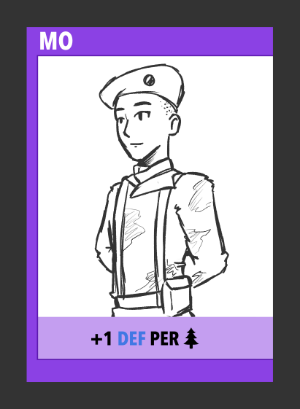
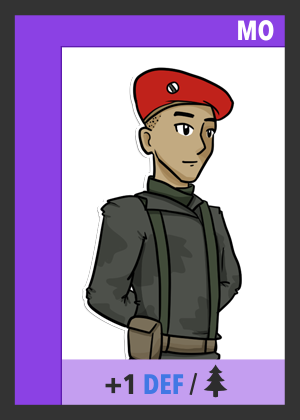
ALL COMBOS IN
Fixes #5 (Added Air Cover/updated Squad)
Updates 3* Combo art
Update CO card art

diff --git a/js/min/game.min.js b/js/min/game.min.js
@@ -685,7 +685,7 @@ var cardType = {
 		'wingman' : { 'def' : 2, 'atk' : 0, 'sup' : 0, 'vs': 'air', 'canuse' : ['air','air'] },
 		'stealth' : { 'special' : true, 'sup' : 1, 'canuse' : ['inf','lr'] },
 		'barrier' : { 'special' : true, 'sup' : 0, 'canuse' : ['arm','inf','arm'] },
-		'squad' : { 'atk' : 3, 'def' : 0, 'sup' : 0, 'canuse' : ['inf','inf','inf']},
+		'squad' : { 'special' : true, 'sup' : 0, 'canuse' : ['inf','inf','inf']},
 		'patrol' : { 'atk' : 0, 'def' : 4, 'sup' : 2, 'canuse' : ['grd','air','grd']},
 		'acover' : { 'special' : true, 'sup' : 0, 'canuse' : ['air','as','air']},
 		'column' : { 'atk' : 2, 'def' : 2, 'sup' : 1, 'canuse' : ['arm','arm','arm']},
@@ -1361,6 +1361,21 @@ function unitCalc(who) {
 			if (el.parentNode.getAttribute('data-def')) comboDefTotal += parseInt(el.parentNode.getAttribute('data-def'))
 
 			currentSupUse += parseInt(el.parentNode.getAttribute('data-sup'));
+
+			// Check for special combos with multiplier bonuses
+			if (el.parentNode.mBonus) {
+				var bonus = 0;
+				var realwho = (el.parentNode.mBonus.who === 'player' && who === 'player') ? 'player' : 'opponent' ;
+				// Check each unit of "who" ...
+				[].forEach.call(document.querySelectorAll('.'+realwho+' .formation .unit'), function(u) {
+					// ...for the "vs" trait, and if so, add by count amount
+					if (cardType.unit[u.cardProps.type].trait.indexOf( el.parentNode.mBonus.vs ) != -1) bonus += el.parentNode.mBonus.count;
+				});
+
+				if (el.parentNode.mBonus.stat === 'atk') {
+					comboAtkTotal += bonus;
+				} else { comboDefTotal += bonus; }
+			}
 		}
 
 		unitTraits.push(cardType.unit[el.getAttribute('data-type')].trait);
@@ -1371,6 +1386,7 @@ function unitCalc(who) {
 		currentSupUse += parseInt(cardType.unit[el.getAttribute('data-type')].sup);
 	});
 
+	// Add in the Commander bonus
 	if (document.querySelector('.'+who+' .commander')) {
 		var comm = document.querySelector('.'+who+' .commander');
 
@@ -1408,6 +1424,7 @@ function comboCard(unit,card,who) {
 	if ( cardType.unit[card.type] ) { pre = 'unit_'; }
 	else if ( cardType.co[card.type] ) { pre = 'co_'; }
 
+	slot.setAttribute('id', card.id);
 	if (!slot.getAttribute('data-type')) {
 		slot.setAttribute('data-type', card.type);
 	} else { slot.setAttribute('data-type2', card.type); }
@@ -1442,7 +1459,8 @@ function comboCard(unit,card,who) {
 
 		// Special combo color slots
 		if (card.type==='support') buoy.addClass(slot,'sup');
-		if (card.type==='sniper' || card.type==='tstrike') buoy.addClass(slot,'atk');
+		if (card.type==='sniper' || card.type==='tstrike' || card.type==='squad') buoy.addClass(slot,'atk');
+		if (card.type==='acover') buoy.addClass(slot,'def');
 		if (card.type==='intel' || card.type==='stealth' || card.type==='bigguns' || card.type==='barrier') { 
 			buoy.addClass(slot,'atk'); 
 			buoy.addClass(slot,'def'); 
@@ -1513,6 +1531,19 @@ function specialCombo(card,who,v) {
 			'who' : 'opponent', 
 			'var' : uid
 		});
+	}
+
+	function multiplier(card, n,stat,against,trait) {
+		var slot = document.getElementById(card.id);
+		slot.mBonus = { 
+			'count' : n,
+			'stat' : stat,
+			'who' : against,
+			'vs' : trait
+		}
+
+		unitCalc('opponent');
+		unitCalc('player');
 	}
 
 	console.log('Special Combo! Played by: '+who);
@@ -1725,10 +1756,13 @@ function specialCombo(card,who,v) {
 			break;
 		// 3 Star Combo
 		case "barrier":
-			// GOOD QUESTION
+			// Apparently it's automatic?
+			break;
+		case "squad":
+			multiplier(card, 1,'atk','player','inf');
 			break;
 		case "acover":
-			// Might need to rework this card to just extra def...
+			multiplier(card, 2,'def','opponent','air');
 			break;
 		case "bigguns":
 			extraUnit('tank',who);
@@ -1837,7 +1871,9 @@ function clearCombo(el) {
 	el.removeAttribute('data-def');
 	el.removeAttribute('data-sup');
 	el.removeAttribute('data-type');
+	el.removeAttribute('id');
 	if (el.getAttribute('data-type2')) el.removeAttribute('data-type2');
+	if (el.mBonus) el.mBonus = null;
 
 	if (el.querySelector('span').firstElementChild) el.querySelector('span').firstElementChild.remove();
 	// Double check for a 2nd combo (Barrier)
@@ -2235,6 +2271,8 @@ function wipeGame() {
 
 	[].forEach.call(document.querySelectorAll('.combo'), function(slot) {
 		slot.setAttribute('class','');
+		slot.removeAttribute('id');
+		if (slot.mBonus) slot.mBonus = null;
 		slot.querySelector('img').remove();
 	});
 

diff --git a/js/play.js b/js/play.js
@@ -54,7 +54,7 @@ var cardType = {
 		'wingman' : { 'def' : 2, 'atk' : 0, 'sup' : 0, 'vs': 'air', 'canuse' : ['air','air'] },
 		'stealth' : { 'special' : true, 'sup' : 1, 'canuse' : ['inf','lr'] },
 		'barrier' : { 'special' : true, 'sup' : 0, 'canuse' : ['arm','inf','arm'] },
-		'squad' : { 'atk' : 3, 'def' : 0, 'sup' : 0, 'canuse' : ['inf','inf','inf']},
+		'squad' : { 'special' : true, 'sup' : 0, 'canuse' : ['inf','inf','inf']},
 		'patrol' : { 'atk' : 0, 'def' : 4, 'sup' : 2, 'canuse' : ['grd','air','grd']},
 		'acover' : { 'special' : true, 'sup' : 0, 'canuse' : ['air','as','air']},
 		'column' : { 'atk' : 2, 'def' : 2, 'sup' : 1, 'canuse' : ['arm','arm','arm']},
@@ -730,6 +730,21 @@ function unitCalc(who) {
 			if (el.parentNode.getAttribute('data-def')) comboDefTotal += parseInt(el.parentNode.getAttribute('data-def'))
 
 			currentSupUse += parseInt(el.parentNode.getAttribute('data-sup'));
+
+			// Check for special combos with multiplier bonuses
+			if (el.parentNode.mBonus) {
+				var bonus = 0;
+				var realwho = (el.parentNode.mBonus.who === 'player' && who === 'player') ? 'player' : 'opponent' ;
+				// Check each unit of "who" ...
+				[].forEach.call(document.querySelectorAll('.'+realwho+' .formation .unit'), function(u) {
+					// ...for the "vs" trait, and if so, add by count amount
+					if (cardType.unit[u.cardProps.type].trait.indexOf( el.parentNode.mBonus.vs ) != -1) bonus += el.parentNode.mBonus.count;
+				});
+
+				if (el.parentNode.mBonus.stat === 'atk') {
+					comboAtkTotal += bonus;
+				} else { comboDefTotal += bonus; }
+			}
 		}
 
 		unitTraits.push(cardType.unit[el.getAttribute('data-type')].trait);
@@ -740,6 +755,7 @@ function unitCalc(who) {
 		currentSupUse += parseInt(cardType.unit[el.getAttribute('data-type')].sup);
 	});
 
+	// Add in the Commander bonus
 	if (document.querySelector('.'+who+' .commander')) {
 		var comm = document.querySelector('.'+who+' .commander');
 
@@ -777,6 +793,7 @@ function comboCard(unit,card,who) {
 	if ( cardType.unit[card.type] ) { pre = 'unit_'; }
 	else if ( cardType.co[card.type] ) { pre = 'co_'; }
 
+	slot.setAttribute('id', card.id);
 	if (!slot.getAttribute('data-type')) {
 		slot.setAttribute('data-type', card.type);
 	} else { slot.setAttribute('data-type2', card.type); }
@@ -811,7 +828,8 @@ function comboCard(unit,card,who) {
 
 		// Special combo color slots
 		if (card.type==='support') buoy.addClass(slot,'sup');
-		if (card.type==='sniper' || card.type==='tstrike') buoy.addClass(slot,'atk');
+		if (card.type==='sniper' || card.type==='tstrike' || card.type==='squad') buoy.addClass(slot,'atk');
+		if (card.type==='acover') buoy.addClass(slot,'def');
 		if (card.type==='intel' || card.type==='stealth' || card.type==='bigguns' || card.type==='barrier') { 
 			buoy.addClass(slot,'atk'); 
 			buoy.addClass(slot,'def'); 
@@ -882,6 +900,19 @@ function specialCombo(card,who,v) {
 			'who' : 'opponent', 
 			'var' : uid
 		});
+	}
+
+	function multiplier(card, n,stat,against,trait) {
+		var slot = document.getElementById(card.id);
+		slot.mBonus = { 
+			'count' : n,
+			'stat' : stat,
+			'who' : against,
+			'vs' : trait
+		}
+
+		unitCalc('opponent');
+		unitCalc('player');
 	}
 
 	console.log('Special Combo! Played by: '+who);
@@ -1094,10 +1125,13 @@ function specialCombo(card,who,v) {
 			break;
 		// 3 Star Combo
 		case "barrier":
-			// GOOD QUESTION
+			// Apparently it's automatic?
+			break;
+		case "squad":
+			multiplier(card, 1,'atk','player','inf');
 			break;
 		case "acover":
-			// Might need to rework this card to just extra def...
+			multiplier(card, 2,'def','opponent','air');
 			break;
 		case "bigguns":
 			extraUnit('tank',who);
@@ -1206,7 +1240,9 @@ function clearCombo(el) {
 	el.removeAttribute('data-def');
 	el.removeAttribute('data-sup');
 	el.removeAttribute('data-type');
+	el.removeAttribute('id');
 	if (el.getAttribute('data-type2')) el.removeAttribute('data-type2');
+	if (el.mBonus) el.mBonus = null;
 
 	if (el.querySelector('span').firstElementChild) el.querySelector('span').firstElementChild.remove();
 	// Double check for a 2nd combo (Barrier)
@@ -1604,6 +1640,8 @@ function wipeGame() {
 
 	[].forEach.call(document.querySelectorAll('.combo'), function(slot) {
 		slot.setAttribute('class','');
+		slot.removeAttribute('id');
+		if (slot.mBonus) slot.mBonus = null;
 		slot.querySelector('img').remove();
 	});
 

diff --git a/index.html b/index.html
@@ -236,11 +236,11 @@
 				<div class="del"></div>
 				<img src="images/cards/patrol.png" alt="">
 			</div>
-			<!-- div class="card" data-count="0" data-type="acover" >
+			<div class="card" data-count="0" data-type="acover" >
 				<div class="add"></div>
 				<div class="del"></div>
 				<img src="images/cards/acover.png" alt="">
-			</div-->
+			</div>
 			<div class="card" data-count="0" data-type="column" >
 				<div class="add"></div>
 				<div class="del"></div>
